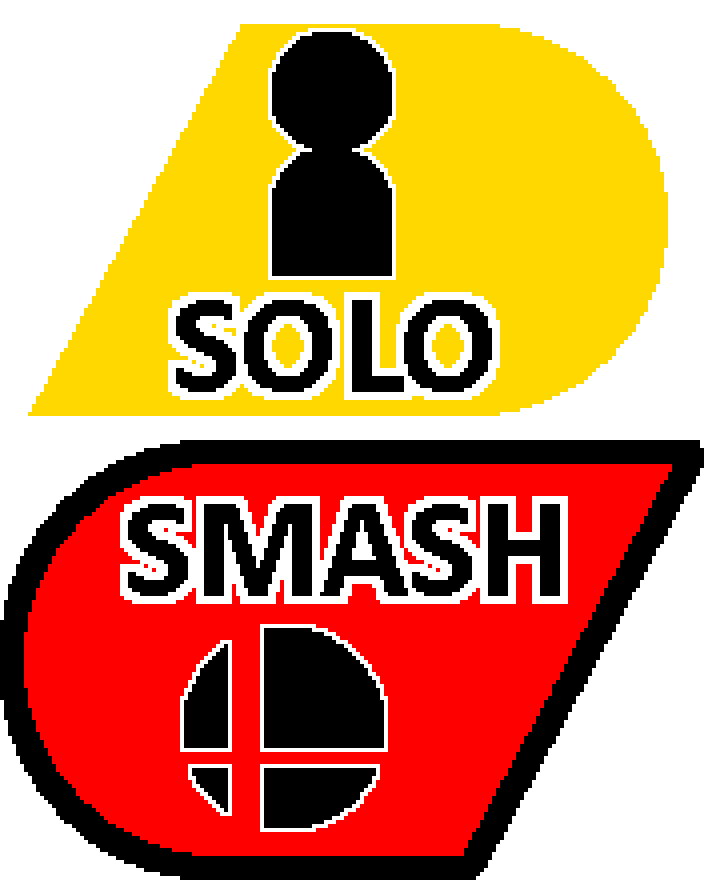
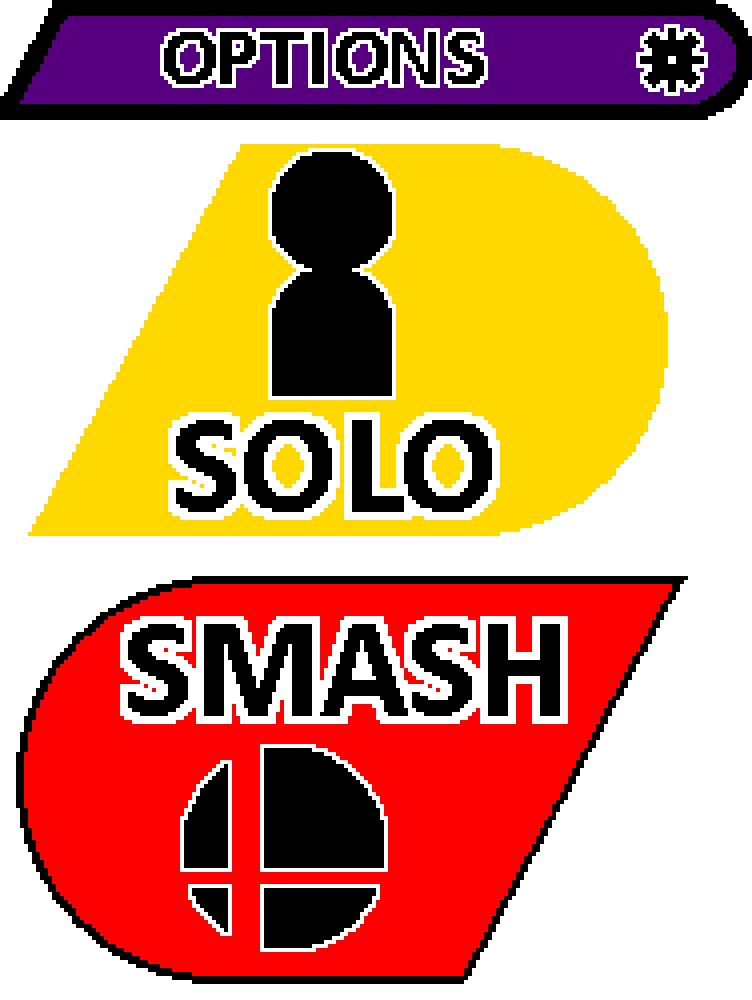
Version 0.1.3.3

diff --git a/src/screen/Menu.java b/src/screen/Menu.java
@@ -65,17 +65,19 @@ public class Menu implements Screen {
 		Gdx.app.exit();
 	    }
 	});
-
-
-	table = new Table(skin);
-	table.add(smash);
-	table.add(solo).row();
-	table.add(exit);
-	table.add(options);
-	table.setFillParent(true);
-
 	stage = new Stage();
-	stage.addActor(table);
+	stage.addActor(exit);
+	exit.setX(10*4);
+	exit.setY(23*4);
+	stage.addActor(options);
+	options.setX(122*4);
+	options.setY(23*4);
+	stage.addActor(smash);
+	smash.setX(10*4);
+	smash.setY(58*4);
+	stage.addActor(solo);
+	solo.setX(141*4);
+	solo.setY(58*4);
 	Gdx.input.setInputProcessor(stage);
 
     }
@@ -85,7 +87,8 @@ public class Menu implements Screen {
      */
     @Override
     public void render(float arg0) {
-	Gdx.gl.glClearColor(0, 0, 0, 1);
+	float g=(float)140/(float)255;
+	Gdx.gl.glClearColor(g, g, g, 1);
 	Gdx.gl.glClear(GL20.GL_COLOR_BUFFER_BIT);
 
 	stage.act();

diff --git a/README.md b/README.md
@@ -25,6 +25,11 @@ A crossover fighting game type program based on the legendary Atari 2600 Video C
 
 ## Changelog
 
+### [Version 0.1.3.3](https://github.com/backfrip/MKS21X-Final-Project/commit/07182e66f69bb0f7e43cae22bd05914edfc0274e) (2015-01-13)
+
+##### New Features
+  - THE MAIN MENU!!! FINALLY!!!
+
 ### [Version 0.1.3.2.2](#) (2015-01-13)
 
 #### Fixes
